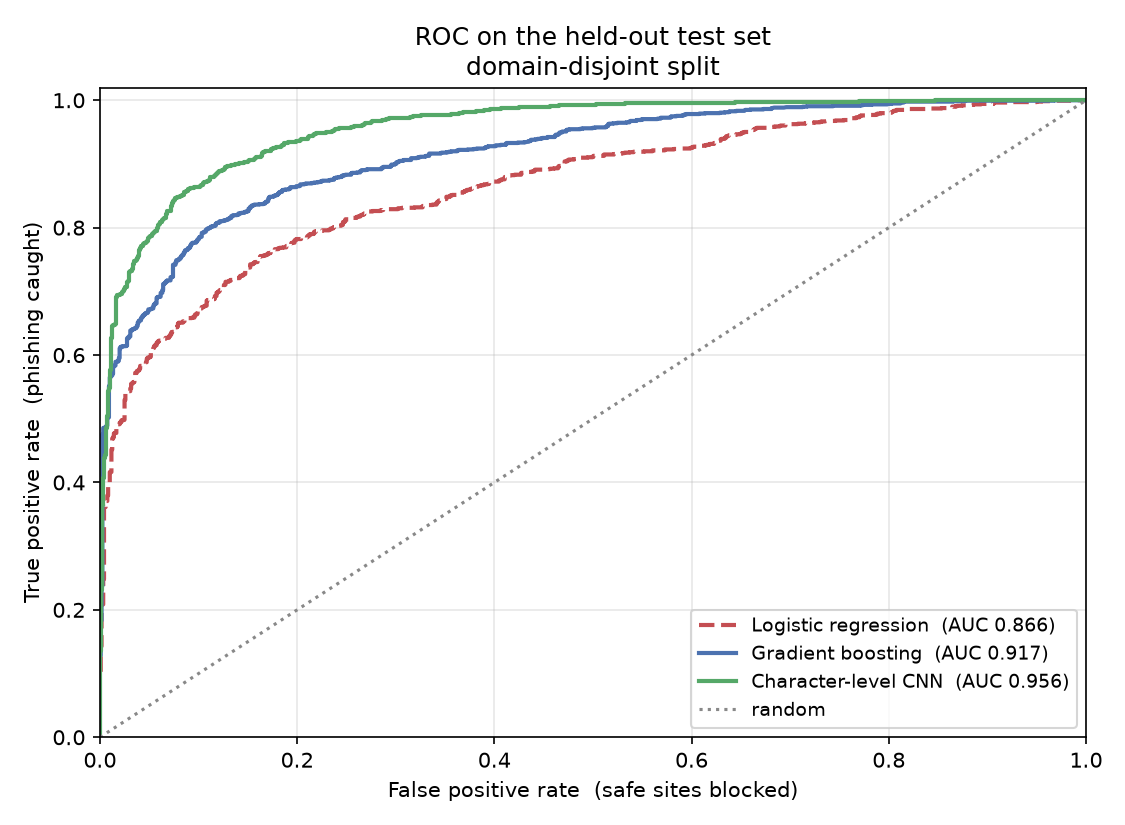
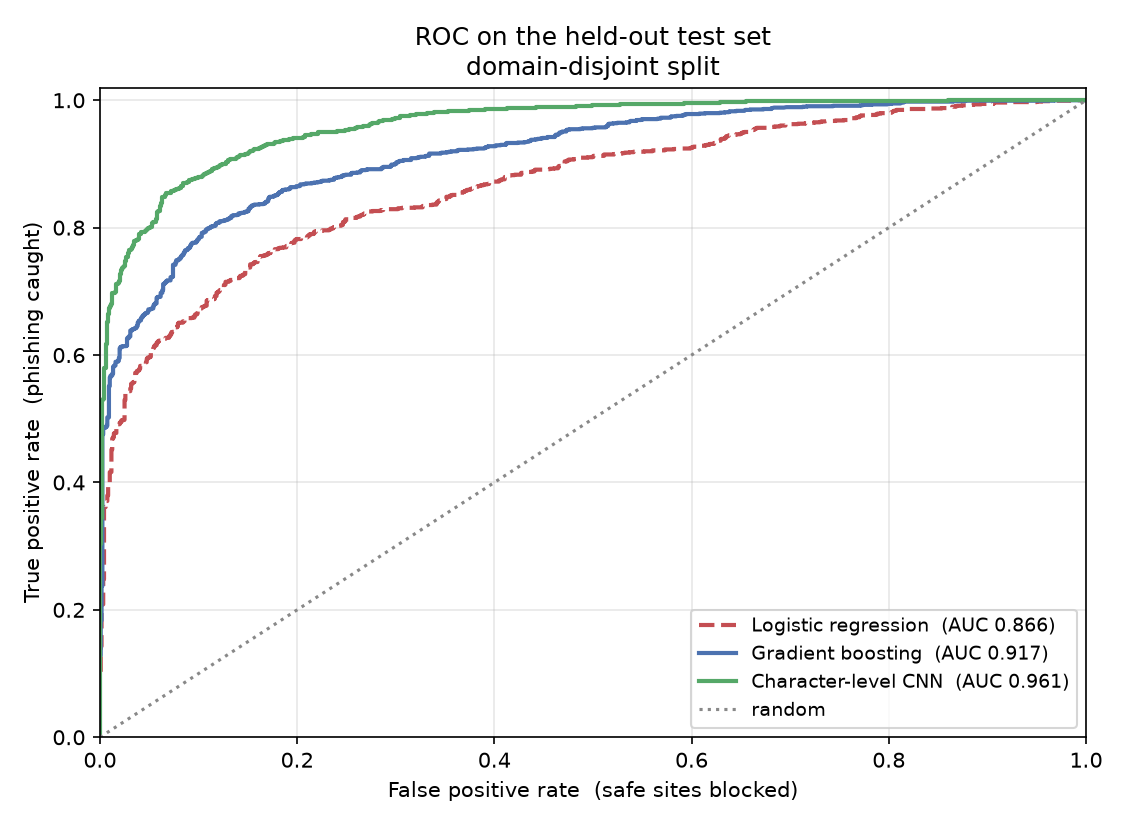
Post-fix: regenerate curves with all three models, refresh ensemble numbers

diff --git a/src/ensemble.py b/src/ensemble.py
@@ -166,13 +166,31 @@ def main() -> None:
     print(f"  missed attacks:                    {fn}\n")
     print(classification_report(y_test, predictions, target_names=["benign", "phishing"]))
 
+    # Computed live, not hardcoded. An earlier version pinned these as
+    # literals and they went stale the moment the CNN was retrained after the
+    # truncation fix -- the script kept confidently reporting a model that no
+    # longer existed. Anything printed for comparison should be measured on
+    # the spot, not remembered from a previous run.
+    gb_threshold = pick_threshold(gb_val, y_val, FALSE_ALARM_COST)
+    cnn_threshold = float(saved["threshold"])
+
     print("Single models on this same test set, for reference:")
-    print("  gradient boosting  AUC 0.917   293 false alarms   167 missed")
-    print("  character CNN      AUC 0.956   234 false alarms    90 missed")
+    for name, probs, threshold in [
+        ("gradient boosting", gb_test, gb_threshold),
+        ("character CNN   ", cnn_test, cnn_threshold),
+    ]:
+        flagged = probs >= threshold
+        false_alarms = int((flagged & (y_test == 0)).sum())
+        missed = int((~flagged & (y_test == 1)).sum())
+        print(
+            f"  {name}  AUC {roc_auc_score(y_test, probs):.3f}   "
+            f"{false_alarms} false alarms   {missed} missed"
+        )
+
     print(
         "\nIf the ensemble does not beat the CNN alone, that is a result too:\n"
-        "it would mean the 168 URLs gradient boosting rescues are outweighed\n"
-        "by the confidence it drags down elsewhere."
+        "it would mean the URLs gradient boosting rescues are outweighed by\n"
+        "the confidence it drags down elsewhere."
     )
 
 

diff --git a/README.md b/README.md
@@ -31,11 +31,11 @@ evaded 97.5% of the time by an attacker who simply looks ordinary).
 | Logistic regression (25 features) | 0.866 | 0.726 | 0.859 | 450 | 195 |
 | Gradient boosting (25 features) | 0.917 | 0.806 | 0.880 | 293 | 167 |
 | **Character-level CNN (raw URL)** | **0.961** | **0.819** | **0.952** | **291** | **67** |
-| CNN + gradient boosting ensemble | 0.960 | 0.863 | 0.927 | 204 | 101 |
+| CNN + gradient boosting ensemble | 0.964 | 0.887 | 0.908 | 160 | 128 |
 
-The CNN figures are post-truncation-fix (head+tail windowing). Before it, the
-same model scored 0.956 / 0.847 / 0.935. The ensemble row predates the fix and
-is stale by that much — it is reported for the methodology, not shipped.
+All figures are post-truncation-fix (head+tail windowing). Before it, the CNN
+scored 0.956 / 0.847 / 0.935. The ensemble edges the CNN on AUC but is **not
+shipped** — see [Why the ensemble isn't shipped](#why-the-ensemble-isnt-shipped).
 
 **The shipped model is the CNN, not the ensemble** — see
 [Why the ensemble isn't shipped](#why-the-ensemble-isnt-shipped).
@@ -55,8 +55,11 @@ different objects. Convolutions see sequence; counts do not.
 
 ![Precision-recall curve](reports/pr_curve.png)
 
-*(Curve currently reflects the earlier row-wise split — regenerating it under the
-domain-disjoint split is outstanding.)*
+Every point on a curve is one possible decision threshold. The CNN sits above
+both feature models at *every* threshold — a stronger claim than comparing
+them at one operating point. Circles mark the reported operating points; the
+dotted line is what flagging every URL would score on this test set, the floor
+any real model must beat.
 
 **Caveat stated up front:** the test set is roughly balanced. Real traffic is not
 — benign URLs outnumber phishing by orders of magnitude. Under that imbalance
@@ -204,24 +207,37 @@ would be the same cheat the three-way split exists to prevent, moved one level
 up: neither model would have seen test, but the ensemble would have been
 fitted to it.
 
-It worked, barely. 204 false alarms against the CNN's 234, 101 missed attacks
-against 90 — 19 fewer errors out of 2,587, about 2%.
+It works — slightly. AUC **0.964** against the CNN's 0.961.
+
+But look at what the operating point actually does:
+
+| | false alarms | missed attacks | weighted cost @ 0.5 |
+|---|---|---|---|
+| Character CNN | 291 | **67** | 425 |
+| Ensemble | **160** | 128 | 416 |
+
+It halves false alarms by **nearly doubling missed attacks**. Under the
+project's stated cost policy that nets out to a 2% improvement — and a 2%
+improvement is not what "nearly doubling the misses" feels like. This is a
+case where the policy constant and the intuition disagree, and it is worth
+noticing rather than deferring to the arithmetic.
 
 **Three reasons it is reported rather than shipped:**
 
-*The gain is near the noise floor.* Validation predicted +0.009 AUC; test
-delivered +0.004. That gap is the cost of selecting a winner from nine
-candidates, and it is visible only because the selection happened on
-validation.
+*The choice is not robust.* The top two strategies tied at 0.917 on
+validation. Concretely: running the identical script on two machines with
+different scikit-learn versions selected **different winners** — "mean of
+ranks" on one, "mean of probabilities" on the other. A result that flips on a
+library patch version is not a finding.
 
-*The choice was close to arbitrary.* The top three strategies scored 0.915,
-0.914 and 0.914 on validation. The reported result is one draw from three
-near-identical options, not a decisive winner.
+*The gain is near the noise floor.* Validation predicted a larger margin than
+test delivered, which is the normal penalty for picking the best of nine
+candidates. It is visible at all only because the selection happened on
+validation and test was touched once.
 
-*The engineering cost is real.* Shipping the ensemble means two models, both
-torch and scikit-learn at inference, two artefacts to keep in sync — for
-+0.004 AUC and slightly *worse* recall, which is the direction the cost policy
-says to favour. The CNN alone is shipped.
+*The engineering cost is real.* Shipping the ensemble means two models, torch
+*and* scikit-learn at inference, two artefacts to keep in sync — for +0.003
+AUC and 61 more phishing URLs through the net. The CNN alone is shipped.
 
 ---
 
